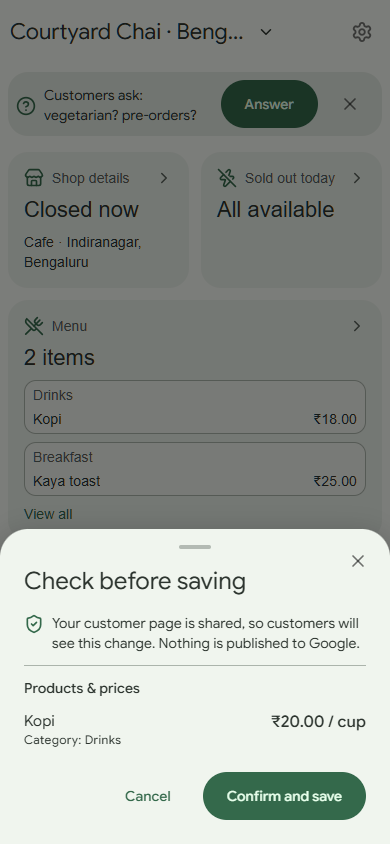
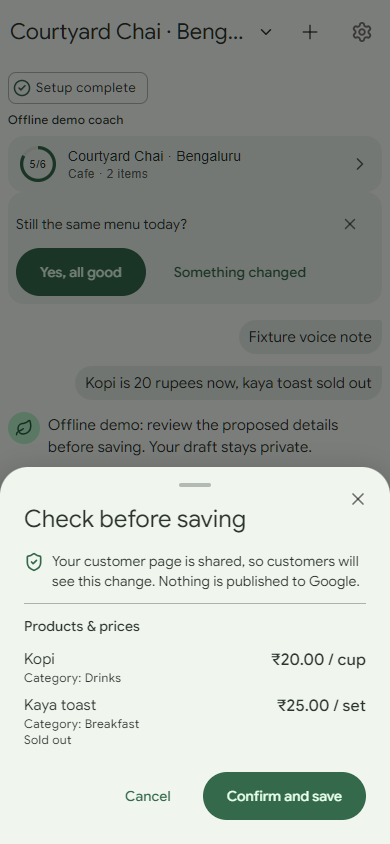
S2: daily price and sold-out changes by conversation open one review card offline
Matches saved menu items only and never guesses a price named in another currency. Live voice tool calls verified against Vertex.

diff --git a/tests/stories/s2.spec.ts b/tests/stories/s2.spec.ts
@@ -3,7 +3,6 @@ import {
   closeSheet,
   confirm,
   enter,
-  gap,
   liveOnly,
   localOnly,
   phone,
@@ -34,25 +33,18 @@ test('S2 · daily upkeep and customer-page connection', async ({ page, context }
     await page.getByRole('button', { name: 'Coach', exact: true }).click()
     await expect(page.getByRole('button', { name: 'Press to talk' })).toBeVisible()
     await tryVoice(page, 2)
-    liveOnly('Voice tool execution and ASR; daily text fixture is also incomplete')
+    // Live voice tool calls were verified against Vertex on 2026-10-15 (propose_products).
+    liveOnly('Speech recognition and live voice tool execution')
     await page
       .getByLabel('Message', { exact: true })
-      .fill('Kopi is two dollars now, kaya toast sold out')
+      .fill('Kopi is 20 rupees now, kaya toast sold out')
     await page.getByRole('button', { name: 'Send', exact: true }).click()
-    await expect(page.getByRole('log')).toContainText('This is a scripted reply')
-    await expect(page.getByRole('dialog', { name: reviewName })).toHaveCount(0)
-    gap(
-      'S2/1–2: offline coach does not propose price or availability edits; manual review below is a fallback',
-    )
     await shot(page, 2, 1)
   })
-  await test.step('2 · confirm a reviewed price via the manual fallback', async () => {
-    await page.getByRole('button', { name: 'My shop', exact: true }).click()
-    await page.getByRole('button', { name: /^Menu/ }).click()
-    await page.getByRole('button', { name: /^Edit Kopi/ }).click()
-    await page.getByLabel(/^Price/).fill('20')
-    await page.getByRole('button', { name: 'Review', exact: true }).click()
-    await expect(page.getByRole('dialog', { name: reviewName })).toContainText('₹20.00 / cup')
+  await test.step('2 · one review card for both changes, one tap to confirm', async () => {
+    const review = page.getByRole('dialog', { name: reviewName })
+    await expect(review).toContainText('₹20.00 / cup')
+    await expect(review).toContainText(/Kaya toast/i)
     await shot(page, 2, 2)
     await confirm(page)
   })
@@ -61,16 +53,18 @@ test('S2 · daily upkeep and customer-page connection', async ({ page, context }
     await shot(customer, 2, 3)
   })
   await test.step('4 · sold-out switch reaches customer page', async () => {
+    const toast = customer.getByRole('listitem').filter({ hasText: 'Kaya toast' })
+    await expect(toast).toContainText('Sold out')
+    await page.getByRole('button', { name: 'My shop', exact: true }).click()
     await page.getByRole('button', { name: /^Sold out today/ }).click()
     const available = page.getByRole('switch', { name: 'Available: Kaya toast' })
-    await available.click()
     await expect(available).not.toBeChecked()
+    await available.click()
+    await expect(available).toBeChecked()
     await shot(page, 2, 4)
     await closeSheet(page)
     await customer.getByRole('button', { name: 'Refresh', exact: true }).click()
-    await expect(customer.getByRole('listitem').filter({ hasText: 'Kaya toast' })).toContainText(
-      'Sold out',
-    )
+    await expect(toast).not.toContainText('Sold out')
   })
   await test.step('5 · daily still-the-same check', async () => {
     await page.getByRole('button', { name: 'Coach', exact: true }).click()

diff --git a/backend/app/agent.py b/backend/app/agent.py
@@ -29,6 +29,7 @@ from .coordinator import (
     propose_products,
     remember_note,
     request_registration,
+    shop_currency,
 )
 from .settings import Settings
 from .sourcing_offline import sourcing_call, sourcing_reply
@@ -158,6 +159,88 @@ def prepare_business_draft(name: str, category: str, location: str) -> dict[str,
     return {"status": "needs_review", "fields": proposal.model_dump(), "published": False}
 
 
+NUMBER_WORDS = {
+    word: index
+    for index, word in enumerate(
+        "zero one two three four five six seven eight nine ten eleven twelve thirteen fourteen "
+        "fifteen sixteen seventeen eighteen nineteen twenty".split()
+    )
+}
+SOLD_OUT = r"sold\s*out|finished|out of stock|not available|unavailable"
+BACK = r"back(?:\s+in\s+stock)?|available again|in stock"
+# Spoken currency names and the shop currencies they can mean; a price in another currency is
+# never converted or guessed.
+CURRENCY_WORDS = {
+    r"dollars?|bucks?|\$": {"SGD", "USD", "AUD", "CAD", "HKD", "NZD", "TWD", "BND"},
+    r"rupees?|rs\.?|₹": {"INR", "LKR", "NPR", "PKR"},
+    r"yen|¥": {"JPY"},
+    r"ringgit|rm": {"MYR"},
+    r"baht|฿": {"THB"},
+    r"won|₩": {"KRW"},
+    r"pesos?|₱": {"PHP"},
+    r"rupiah": {"IDR"},
+    r"dong|₫": {"VND"},
+    r"euros?|€": {"EUR"},
+    r"pounds?|£": {"GBP"},
+}
+
+
+def upkeep_call(question: str, ctx: Any) -> types.Part | None:
+    """Offline fixture for daily upkeep: "Kopi is two dollars now, kaya toast sold out".
+
+    Only items already on the saved menu are matched, so the review card shows real old → new
+    values; anything else falls through to the scripted reply.
+    """
+    import re
+
+    if "?" in question or re.search(r"\b(?:prep|forecast|how much|how many)\b", question, re.I):
+        return None
+    try:
+        context = ctx.store.context(ctx.uid, ctx.business_id)
+        inventory = context["inventory"]
+        currency = shop_currency(context["business"])
+    except Exception:
+        return None
+    names = sorted({p["name"] for p in inventory}, key=len, reverse=True)
+    items: dict[str, dict[str, object]] = {}
+    for clause in re.split(r"[,;.\n]|\band\b|\bbut\b", question, flags=re.I):
+        lowered = clause.casefold()
+        name = next((n for n in names if n.casefold() in lowered), None)
+        if not name:
+            continue
+        rest = lowered.split(name.casefold(), 1)[1]
+        if re.search(rf"\b(?:{SOLD_OUT})\b", rest):
+            items.setdefault(name, {"name": name})["available"] = False
+            continue
+        if re.search(rf"\b(?:{BACK})\b", rest):
+            items.setdefault(name, {"name": name})["available"] = True
+            continue
+        named = [
+            codes
+            for pattern, codes in CURRENCY_WORDS.items()
+            if re.search(rf"(?<!\w)(?:{pattern})(?!\w)", rest)
+        ]
+        if named and not any(currency in codes for codes in named):
+            continue  # "two dollars" for a rupee shop: leave it to the owner, never guess
+        number = re.search(r"(\d+(?:[.,]\d{1,3})?)", rest)
+        word = next(
+            (NUMBER_WORDS[w] for w in re.findall(r"[a-z]+", rest) if w in NUMBER_WORDS), None
+        )
+        if number:
+            items.setdefault(name, {"name": name})["price"] = float(
+                number.group(1).replace(",", ".")
+            )
+        elif word is not None:
+            items.setdefault(name, {"name": name})["price"] = float(word)
+    if not items:
+        return None
+    return types.Part(
+        function_call=types.FunctionCall(
+            name="propose_products", args={"items": list(items.values())}
+        )
+    )
+
+
 class OfflineCoachModel(BaseLlm):
     """Scripted fixture using the actual ADK model interface; never calls a provider."""
 
@@ -231,6 +314,10 @@ class OfflineCoachModel(BaseLlm):
                 )
                 if sourcing is not None:
                     yield LlmResponse(content=types.Content(role="model", parts=[sourcing]))
+                    return
+                upkeep = upkeep_call(question, ctx) if ctx and ctx.business_id else None
+                if upkeep is not None:
+                    yield LlmResponse(content=types.Content(role="model", parts=[upkeep]))
                     return
                 if ctx and ctx.business_id and re.search(r"\b(?:prep|forecast)\b", question, re.I):
                     yield LlmResponse(

diff --git a/backend/tests/test_merchant_routes.py b/backend/tests/test_merchant_routes.py
@@ -304,6 +304,50 @@ def test_offline_coach_halal_answer_is_reviewed_then_published(app) -> None:
         assert public["facts"] == {"halal": "yes"}
 
 
+def test_offline_coach_prepares_daily_price_and_sold_out_change(app) -> None:
+    with TestClient(app) as client:
+        join(client)
+        receipt = approve(client, propose_business(client))
+        bid = receipt["business_id"]
+        products = [
+            {"name": "Kopi", "price": 180, "unit": "cup", "stock": 10},
+            {"name": "Kaya Toast", "price": 250, "unit": "plate", "stock": 5},
+        ]
+        approve(
+            client,
+            client.post(
+                "/api/v1/proposals",
+                json={
+                    "kind": "inventory",
+                    "business_id": bid,
+                    "revision": receipt["revision"],
+                    "products": products,
+                },
+            ).json(),
+        )
+        events = stream_events(
+            client,
+            {"message": "Kopi is two dollars now, kaya toast sold out", "business_id": bid},
+        )
+        proposal = next(event["data"] for event in events if event["kind"] == "proposal")
+        assert isinstance(proposal, dict)
+        changed = {p["name"]: p for p in proposal["snapshot"]["products"]}
+        assert changed["Kopi"]["price"] == 200
+        assert changed["Kaya Toast"]["available"] is False
+        # Prepared only: the saved menu is unchanged until the owner confirms.
+        saved = {p["name"]: p for p in client.get(f"/api/v1/businesses/{bid}/inventory").json()}
+        assert saved["Kopi"]["price"] == 180
+        assert saved["Kaya Toast"]["available"] is True
+        # A price in another currency is never converted or guessed for this SGD shop.
+        events = stream_events(client, {"message": "Kopi is 20 rupees now", "business_id": bid})
+        assert not any(event["kind"] == "proposal" for event in events)
+        # A forecast question about a menu item is not mistaken for a price change.
+        events = stream_events(
+            client, {"message": "How many kopi for 20 people?", "business_id": bid}
+        )
+        assert not any(event["kind"] == "proposal" for event in events)
+
+
 def test_proposal_accepts_custom_names_and_rejects_oversized_facts(app) -> None:
     with TestClient(app) as client:
         join(client)

diff --git a/docs/stories/AUDIT.md b/docs/stories/AUDIT.md
@@ -71,7 +71,7 @@ Sizes on unfixed rows remain estimates, not completed work.
 
 | Rank / ID                | Story and step        | Observed problem / evidence                                                                                                                                                                                                                                                                                                                               | Why it matters                                                                                                                                                                    | Proposed fix and size                                                                                                                                                                                                                                                                                        |
 | ------------------------ | --------------------- | --------------------------------------------------------------------------------------------------------------------------------------------------------------------------------------------------------------------------------------------------------------------------------------------------------------------------------------------------------- | --------------------------------------------------------------------------------------------------------------------------------------------------------------------------------- | ------------------------------------------------------------------------------------------------------------------------------------------------------------------------------------------------------------------------------------------------------------------------------------------------------------ |
-| 1 · A1                   | S2/1–2                | “Kopi is two dollars now, kaya toast sold out” produces the generic scripted reply, with no review card. Voice fixture proves recording/finish/transcript UI only. [S2-1](S2-1.png).                                                                                                                                                                      | The central daily-upkeep demo cannot proceed by conversation. The manual reviewed ₹20 price below is explicitly a fallback, not successful interpretation or currency conversion. | Implement deterministic offline price/availability proposals using existing reviewed tools; separately evaluate actual live voice tool calls and ambiguous currency wording. Medium, about 200–350 lines plus live evaluation. Coordinate with tool owner.                                                   |
+| 1 · A1 (fixed: offline fixture + live voice tool calls verified 2026-10-15) | S2/1–2                | “Kopi is two dollars now, kaya toast sold out” produces the generic scripted reply, with no review card. Voice fixture proves recording/finish/transcript UI only. [S2-1](S2-1.png).                                                                                                                                                                      | The central daily-upkeep demo cannot proceed by conversation. The manual reviewed ₹20 price below is explicitly a fallback, not successful interpretation or currency conversion. | Implement deterministic offline price/availability proposals using existing reviewed tools; separately evaluate actual live voice tool calls and ambiguous currency wording. Medium, about 200–350 lines plus live evaluation. Coordinate with tool owner.                                                   |
 | 2 · A2                   | S1/6, S3/2, S7/3      | Offline geocoding accepts six Singapore areas but rejects all eight city names, including Bengaluru and Singapore. The catalogue has eight cities, but default local preview is unseeded. [Bengaluru failure](S7-3-bengaluru.png), [catalogue example](S7-3-bengaluru-catalogue.png).                                                                     | Outside Singapore, typed-city discovery and the setup pin dead-end; catalogue existence alone does not make a demo discoverable.                                                  | Add international offline city/pin fixtures and an isolated, reproducible SQLite/emulator seeding setup; check radius and nearest-first results in each city. Medium, about 120–200 lines. Validate hosted seed state separately.                                                                            |
 | 3 · A3 (fixed and live (99bed19))   | S2/3–4; S3 connection | An already-open customer page keeps ₹18 after the owner saves ₹20. Refresh retrieves the new price and sold-out state. [Stale](S2-3-stale.png), [refreshed](S2-3.png).                                                                                                                                                                                    | Side-by-side owner/customer demo contradicts “updates instantly”; returning to a tab hides the gap.                                                                               | Subscribe to public revision updates, or explicitly define bounded polling with refresh/error/visibility cleanup. Medium, about 120–220 lines and cross-context tests.                                                                                                                                       |
 | 4 · A4 (fixed and live (99bed19))   | S3/5                  | Asking “halal?” returns “Not listed” despite the confirmed Halal chip and working filter. Payment questions return UPI/Cash. [Halal](S3-5.png), [payment fallback](S3-5-payment-fixture.png).                                                                                                                                                             | The exact customer question in the story contradicts the shop's displayed facts.                                                                                                  | Extend the deterministic fact-answer fixture with honest, localized halal states and non-certification wording; test yes/no/Muslim-owned/unknown. Medium, about 60–100 lines across fixture/copy/tests; coordinate locale work.                                                                              |

diff --git a/STORIES.md b/STORIES.md
@@ -41,10 +41,11 @@ physical camera/GPS and hosted validation remain live-only.
 **Connects to:** S3 and S4.
 
 Status ◐ · 2026-10-15 · Offline phone walkthrough: `tests/stories/s2.spec.ts`.
-Gaps: [A1](docs/stories/AUDIT.md) — conversational edits lack an offline fixture.
+A1 fixed: "Kopi is 20 rupees now, kaya toast sold out" opens one review card offline (menu items
+only; a price in another currency is never guessed). Live voice verified against Vertex on
+2026-10-15: gemini-3.8-live calls get_business_context then propose_products with both changes.
 A3, A9 and A12 are fixed and live (99bed19); visible public pages poll within about five seconds.
-**Known:** the live voice model must actually call the tools (it said "I can't access your menu").
-Reviewed manual edits and CSV import are verified fallbacks, not live voice/photo/PDF evidence.
+Photo/PDF import and on-device speech recognition remain live-only evidence.
 
 ## S3 · A customer finds a shop nearby and talks to it
 
